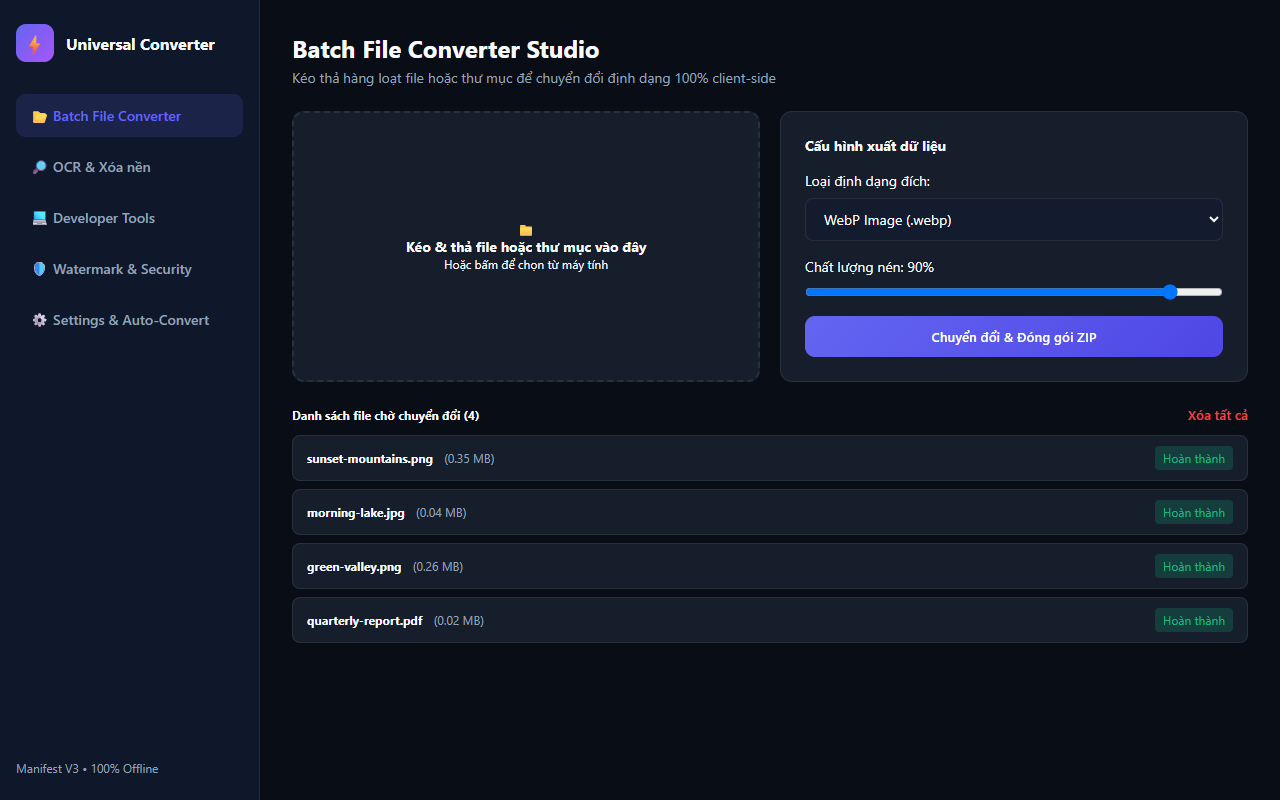
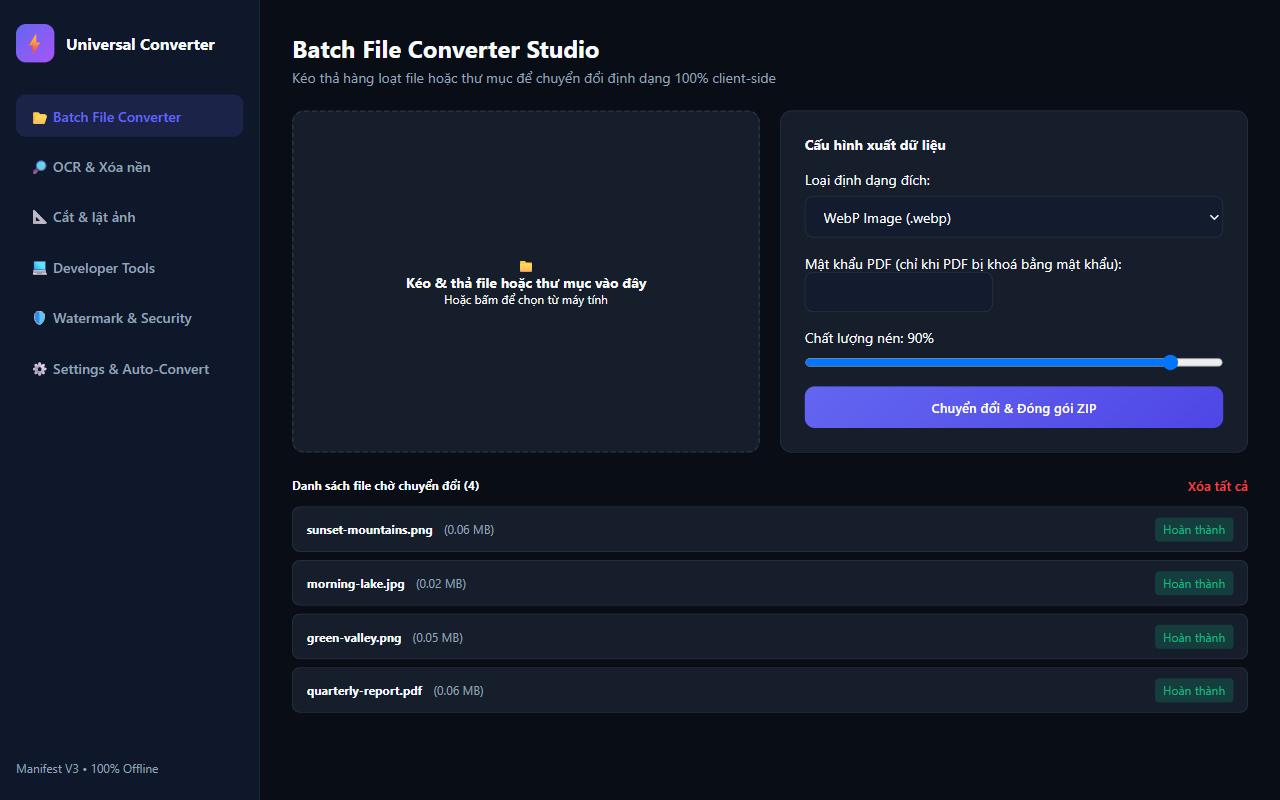
chore(release): 1.5.0, crop and flip images
Version 1.4.0 -> 1.5.0 in manifest.json, package.json and package-lock.json.

The Store screenshots are taken again from the 1.5.0 package, so the sidebar shows the new
Crop & Flip tab. The Crop & Flip tab takes the place of Watermark & Security (the Store
takes five pictures); Developer Tools moves to number 4.

diff --git a/store-assets/README.md b/store-assets/README.md
@@ -6,8 +6,9 @@
 | `small-promo-tile-440x280.png` | Ảnh quảng bá nhỏ | 440x280 |
 | `store-icon.jpg` | Bản gốc của icon | 1024x1024 |
 
-Năm ảnh chụp là giao diện thật của extension: bản 1.1.1 được nạp vào Chromium, chạy trên các file mẫu tự dựng (ảnh
-phong cảnh vẽ bằng CSS, một văn bản Việt–Anh, một logo trên nền trơn, hai file PDF nhỏ) rồi chụp ở 1280x800. Khi
-giao diện đổi, hãy chụp lại từ bản build mới thay vì chỉnh sửa ảnh.
+Năm ảnh chụp là giao diện thật của extension: gói ZIP bản 1.5.0 được nạp vào Chromium, chạy trên các file mẫu tự
+dựng (ảnh phong cảnh vẽ bằng CSS, một văn bản Việt–Anh, một logo trên nền trơn, một file PDF nhỏ) rồi chụp ở
+1280x800. Từ 1.5.0, ảnh thẻ Watermark & Security nhường chỗ cho thẻ Cắt & lật ảnh, vì Store nhận tối đa năm ảnh.
+Khi giao diện đổi, hãy chụp lại từ bản build mới thay vì chỉnh sửa ảnh.
 
 Icon 128x128 gửi lên Store là `assets/icons/icon128.png`, cũng chính là icon nằm trong gói.
